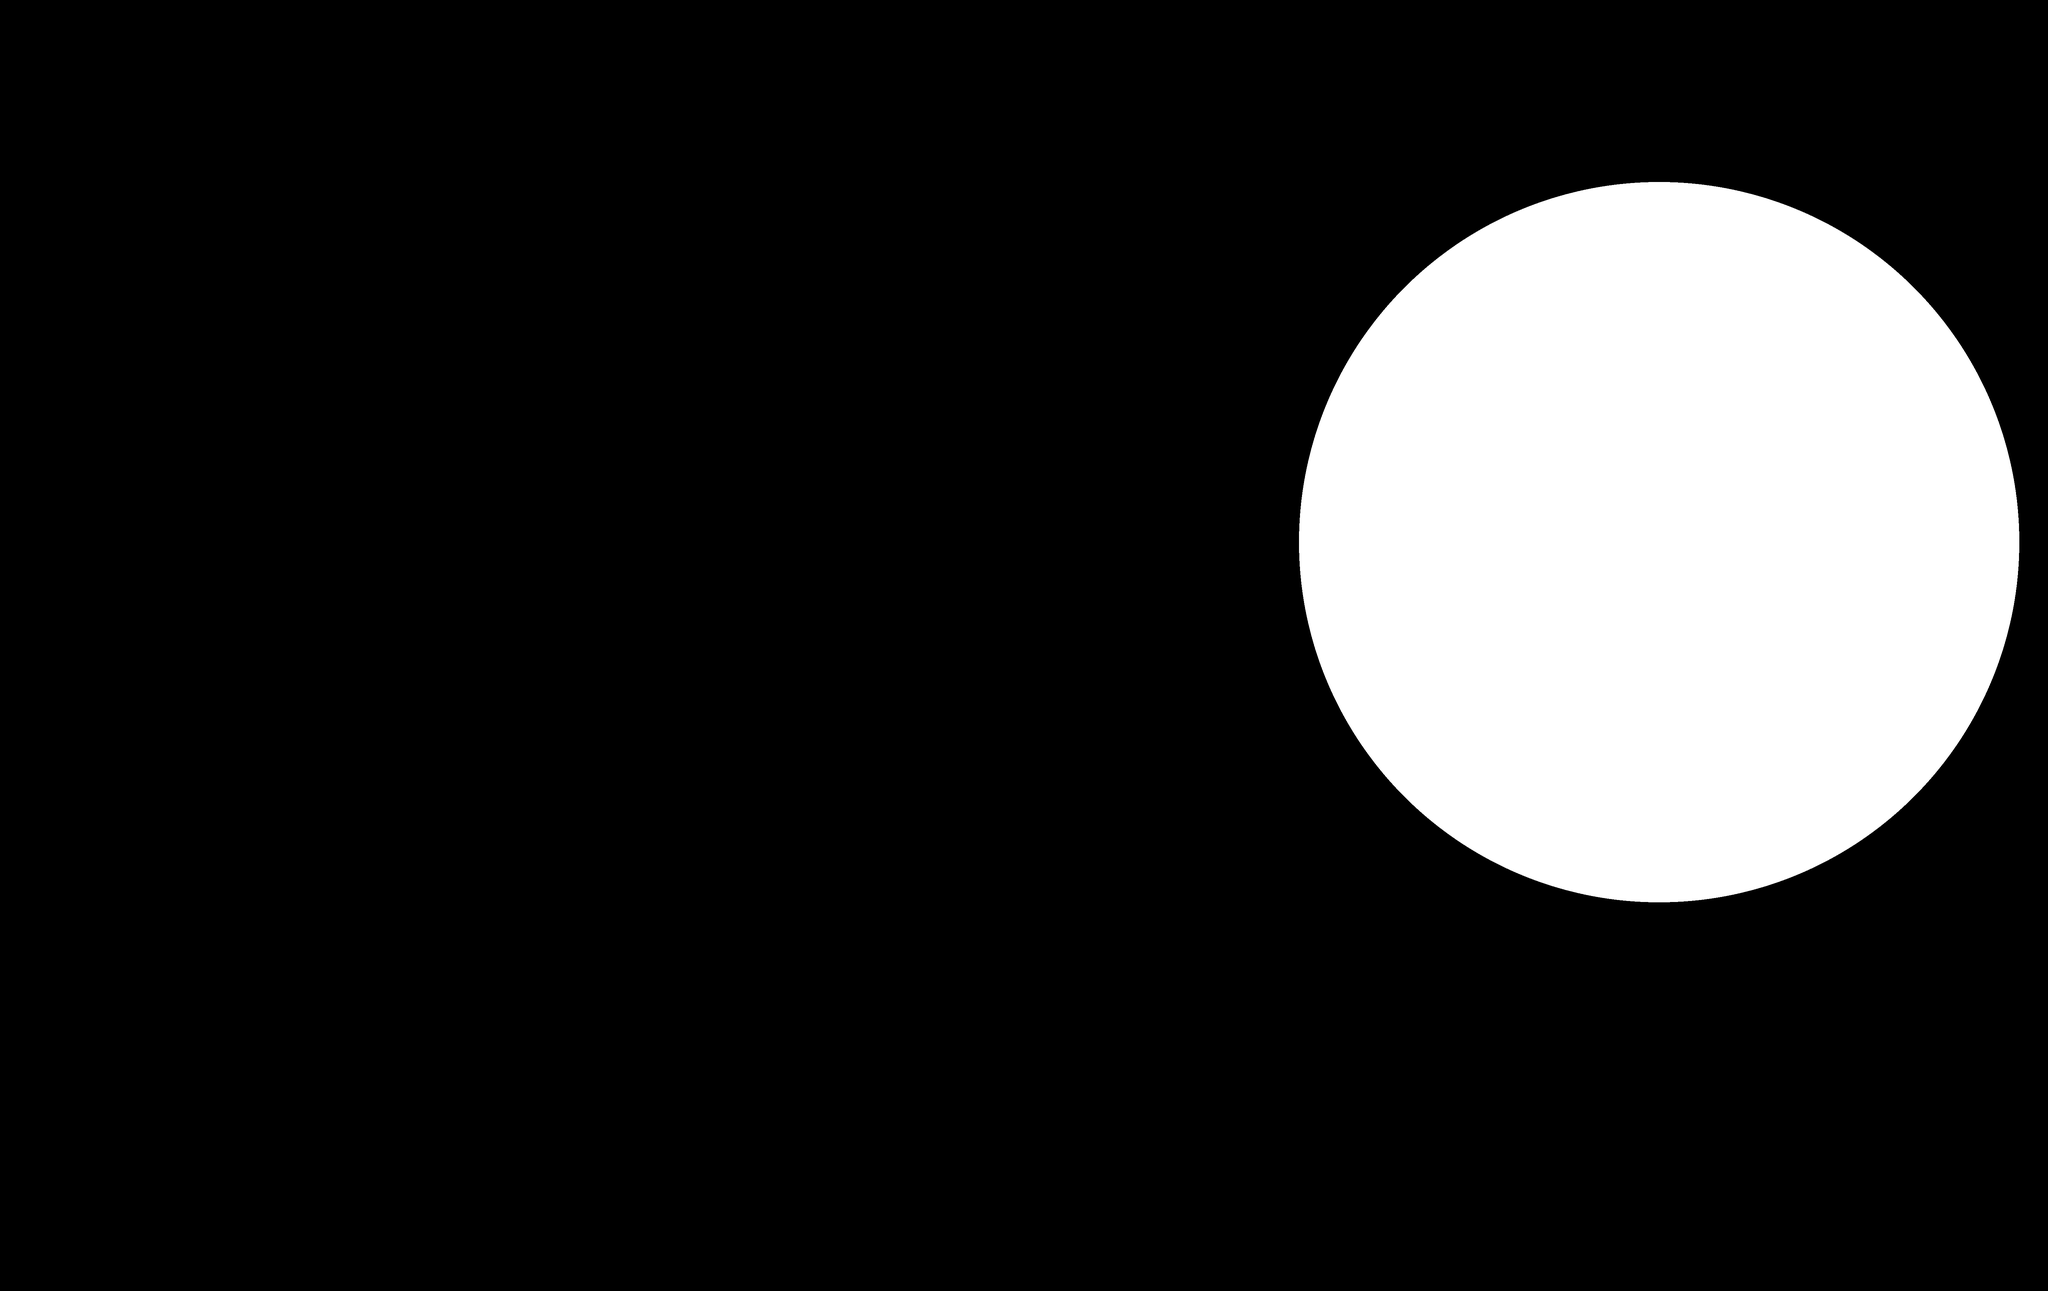
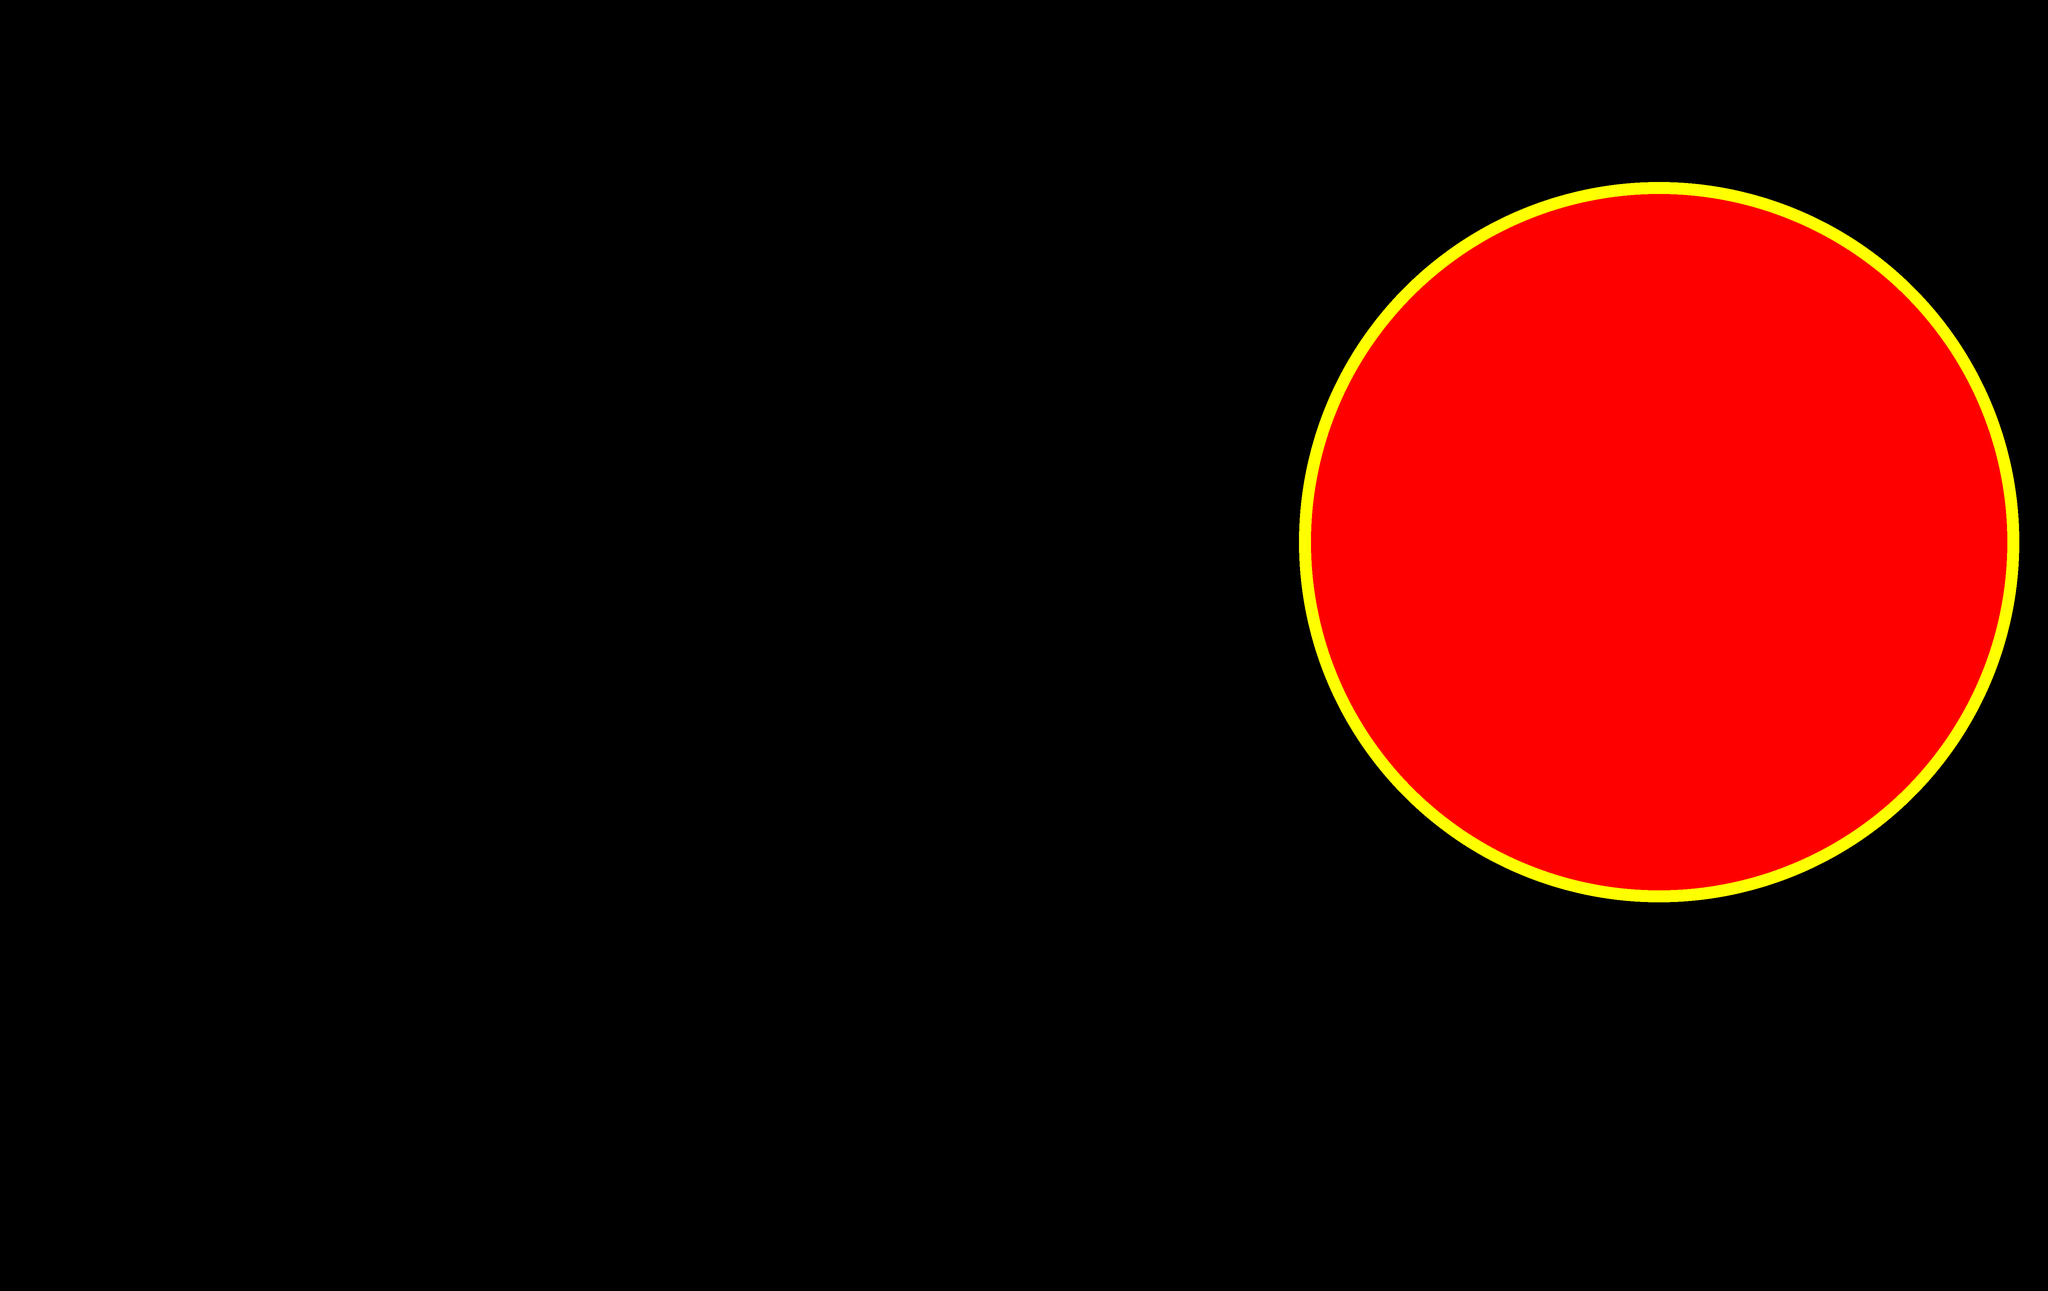
Siyah kart arka yüz: NFC dairesi belirgin
Claude-Session: https://claude.ai/code/session_01RbxPV14g2sV64gxynTKrXk

Changed region(s): [[0.625, 0.1239, 1.0, 0.7126]]

diff --git a/render/scene.py b/render/scene.py
@@ -266,19 +266,28 @@ def card_face_material(name, mask_path, finish="black"):
         nt.links.new(grain.outputs["Fac"], bump.inputs["Height"])
         nt.links.new(bump.outputs["Normal"], bsdf.inputs["Normal"])
         if mask_path == "card-back.png":
-            disc = image(nt, os.path.join(TEX, "card-back-nfc.png"), non_color=True, loc=(-900, -600))
-            # The NFC disc: a touch smoother and darker, with a hairline edge.
+            tex = image(nt, os.path.join(TEX, "card-back-nfc.png"), non_color=True, loc=(-1100, -600))
+            sep = node(nt, "ShaderNodeSeparateColor", (-900, -600))
+            nt.links.new(tex.outputs["Color"], sep.inputs["Color"])
+            disc, ring = sep.outputs["Red"], sep.outputs["Green"]
+            # The NFC disc is a separate, glossier inlay: clearly visible as a
+            # smoother, slightly lighter circle with a crisp seam around it.
             r = node(nt, "ShaderNodeMapRange", (-400, -100))
             r.inputs["To Min"].default_value = 0.62
-            r.inputs["To Max"].default_value = 0.55
-            nt.links.new(disc.outputs["Color"], r.inputs["Value"])
+            r.inputs["To Max"].default_value = 0.38
+            nt.links.new(disc, r.inputs["Value"])
             nt.links.new(r.outputs["Result"], bsdf.inputs["Roughness"])
             c = node(nt, "ShaderNodeMix", (-200, 250))
             c.data_type = "RGBA"
             c.inputs["A"].default_value = (*FINISHES["black"][0], 1)
-            c.inputs["B"].default_value = (0.017, 0.017, 0.019, 1)
-            nt.links.new(disc.outputs["Color"], c.inputs["Factor"])
-            nt.links.new(c.outputs["Result"], bsdf.inputs["Base Color"])
+            c.inputs["B"].default_value = (0.034, 0.034, 0.038, 1)
+            nt.links.new(disc, c.inputs["Factor"])
+            seam = node(nt, "ShaderNodeMix", (0, 250))
+            seam.data_type = "RGBA"
+            seam.inputs["B"].default_value = (0.004, 0.004, 0.005, 1)
+            nt.links.new(c.outputs["Result"], seam.inputs["A"])
+            nt.links.new(ring, seam.inputs["Factor"])
+            nt.links.new(seam.outputs["Result"], bsdf.inputs["Base Color"])
         else:
             nt.links.new(rough.outputs["Result"], bsdf.inputs["Roughness"])
         bsdf.inputs["Metallic"].default_value = 0.35
